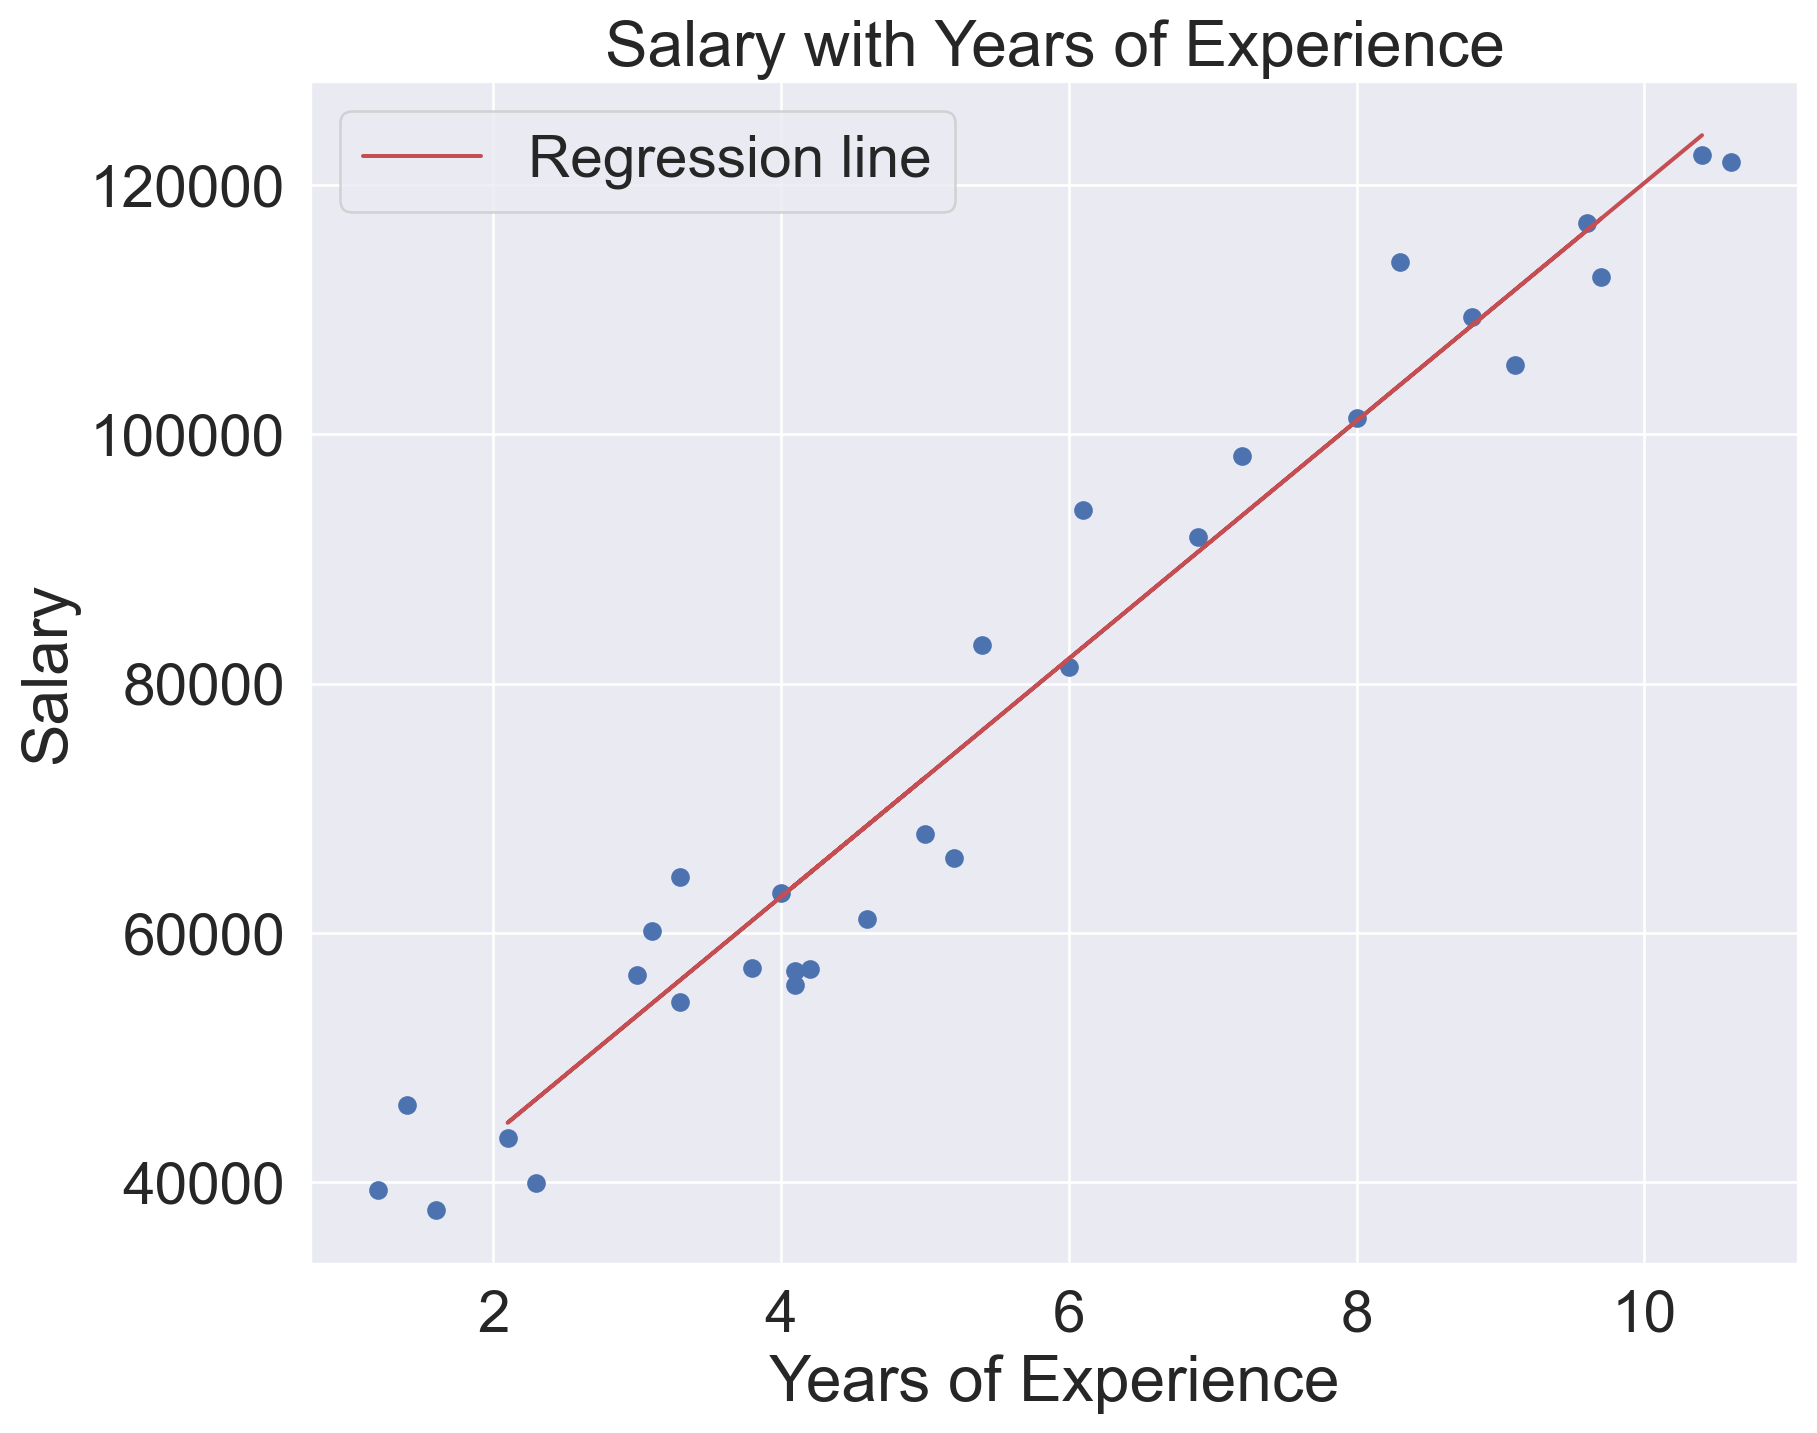
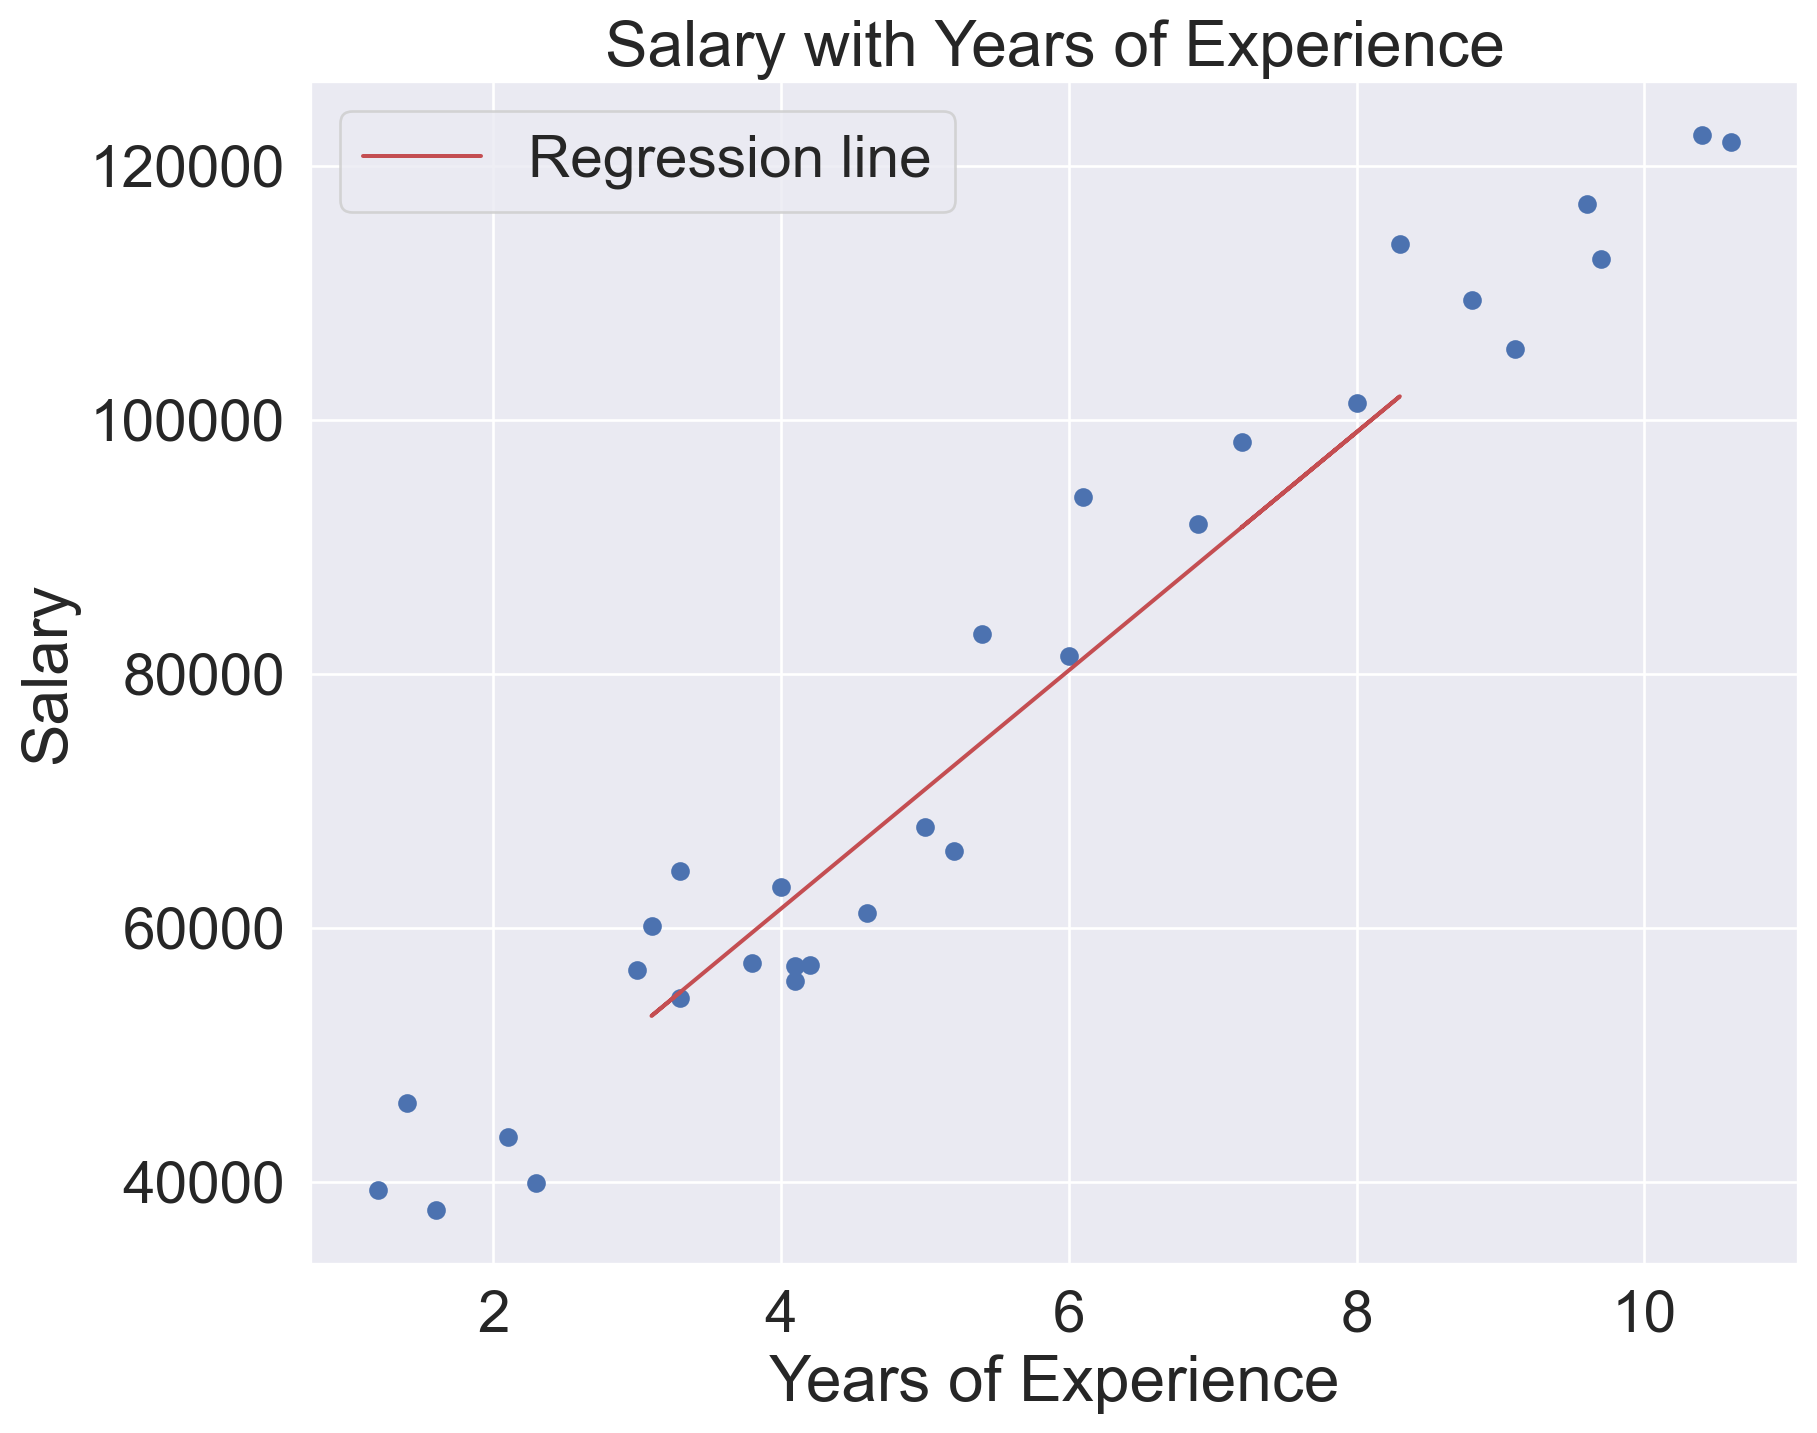
4th blog

diff --git a/docs/posts/Blog4/index.html b/docs/posts/Blog4/index.html
@@ -6,8 +6,10 @@
 
 <meta name="viewport" content="width=device-width, initial-scale=1.0, user-scalable=yes">
 
+<meta name="author" content="Shreyas Harathi">
+<meta name="dcterms.date" content="2023-11-29">
 
-<title>MachineLearning - ML Blog</title>
+<title>MachineLearning - Clustering</title>
 <style>
 code{white-space: pre-wrap;}
 span.smallcaps{font-variant: small-caps;}
@@ -23,24 +25,22 @@ ul.task-list li input[type="checkbox"] {
 </style>
 
 
-<script src="site_libs/quarto-nav/quarto-nav.js"></script>
-<script src="site_libs/quarto-nav/headroom.min.js"></script>
-<script src="site_libs/clipboard/clipboard.min.js"></script>
-<script src="site_libs/quarto-search/autocomplete.umd.js"></script>
-<script src="site_libs/quarto-search/fuse.min.js"></script>
-<script src="site_libs/quarto-search/quarto-search.js"></script>
-<meta name="quarto:offset" content="./">
-<script src="site_libs/quarto-listing/list.min.js"></script>
-<script src="site_libs/quarto-listing/quarto-listing.js"></script>
-<script src="site_libs/quarto-html/quarto.js"></script>
-<script src="site_libs/quarto-html/popper.min.js"></script>
-<script src="site_libs/quarto-html/tippy.umd.min.js"></script>
-<script src="site_libs/quarto-html/anchor.min.js"></script>
-<link href="site_libs/quarto-html/tippy.css" rel="stylesheet">
-<link href="site_libs/quarto-html/quarto-syntax-highlighting-dark.css" rel="stylesheet" id="quarto-text-highlighting-styles">
-<script src="site_libs/bootstrap/bootstrap.min.js"></script>
-<link href="site_libs/bootstrap/bootstrap-icons.css" rel="stylesheet">
-<link href="site_libs/bootstrap/bootstrap.min.css" rel="stylesheet" id="quarto-bootstrap" data-mode="dark">
+<script src="../../site_libs/quarto-nav/quarto-nav.js"></script>
+<script src="../../site_libs/quarto-nav/headroom.min.js"></script>
+<script src="../../site_libs/clipboard/clipboard.min.js"></script>
+<script src="../../site_libs/quarto-search/autocomplete.umd.js"></script>
+<script src="../../site_libs/quarto-search/fuse.min.js"></script>
+<script src="../../site_libs/quarto-search/quarto-search.js"></script>
+<meta name="quarto:offset" content="../../">
+<script src="../../site_libs/quarto-html/quarto.js"></script>
+<script src="../../site_libs/quarto-html/popper.min.js"></script>
+<script src="../../site_libs/quarto-html/tippy.umd.min.js"></script>
+<script src="../../site_libs/quarto-html/anchor.min.js"></script>
+<link href="../../site_libs/quarto-html/tippy.css" rel="stylesheet">
+<link href="../../site_libs/quarto-html/quarto-syntax-highlighting-dark.css" rel="stylesheet" id="quarto-text-highlighting-styles">
+<script src="../../site_libs/bootstrap/bootstrap.min.js"></script>
+<link href="../../site_libs/bootstrap/bootstrap-icons.css" rel="stylesheet">
+<link href="../../site_libs/bootstrap/bootstrap.min.css" rel="stylesheet" id="quarto-bootstrap" data-mode="dark">
 <script id="quarto-search-options" type="application/json">{
   "location": "navbar",
   "copy-button": false,
@@ -61,68 +61,19 @@ ul.task-list li input[type="checkbox"] {
     "search-label": "Search"
   }
 }</script>
-<script>
 
-  window.document.addEventListener("DOMContentLoaded", function (_event) {
-    const listingTargetEl = window.document.querySelector('#listing-listing .list');
-    if (!listingTargetEl) {
-      // No listing discovered, do not attach.
-      return; 
-    }
 
-    const options = {
-      valueNames: ['listing-date','listing-title','listing-author','listing-image','listing-description',{ data: ['index'] },{ data: ['categories'] },{ data: ['listing-date-sort'] },{ data: ['listing-file-modified-sort'] }],
-      
-      searchColumns: ["listing-date","listing-title","listing-author","listing-image","listing-description"],
-    };
-
-    window['quarto-listings'] = window['quarto-listings'] || {};
-    window['quarto-listings']['listing-listing'] = new List('listing-listing', options);
-
-    if (window['quarto-listing-loaded']) {
-      window['quarto-listing-loaded']();
-    }
-  });
-
-  window.addEventListener('hashchange',() => {
-    if (window['quarto-listing-loaded']) {
-      window['quarto-listing-loaded']();
-    }
-  })
-  </script>
-<style>
-
-      .quarto-title-block .quarto-title-banner h1,
-      .quarto-title-block .quarto-title-banner h2,
-      .quarto-title-block .quarto-title-banner h3,
-      .quarto-title-block .quarto-title-banner h4,
-      .quarto-title-block .quarto-title-banner h5,
-      .quarto-title-block .quarto-title-banner h6
-      {
-        color: White;
-      }
-
-      .quarto-title-block .quarto-title-banner {
-        color: White;
-background-image: url(qwq.jpg);
-background-size: cover;
-      }
-</style>
-
-  <script src="https://polyfill.io/v3/polyfill.min.js?features=es6"></script>
-  <script src="https://cdn.jsdelivr.net/npm/mathjax@3/es5/tex-chtml-full.js" type="text/javascript"></script>
-
-<link rel="stylesheet" href="styles.css">
+<link rel="stylesheet" href="../../styles.css">
 </head>
 
-<body class="nav-fixed">
+<body class="nav-fixed fullcontent">
 
 <div id="quarto-search-results"></div>
   <header id="quarto-header" class="headroom fixed-top">
     <nav class="navbar navbar-expand-lg navbar-dark ">
       <div class="navbar-container container-fluid">
       <div class="navbar-brand-container">
-    <a class="navbar-brand" href="./index.html">
+    <a class="navbar-brand" href="../../index.html">
     <span class="navbar-title">MachineLearning</span>
     </a>
   </div>
@@ -133,7 +84,7 @@ background-size: cover;
           <div class="collapse navbar-collapse" id="navbarCollapse">
             <ul class="navbar-nav navbar-nav-scroll ms-auto">
   <li class="nav-item">
-    <a class="nav-link" href="./about.html" rel="" target="">
+    <a class="nav-link" href="../../about.html" rel="" target="">
  <span class="menu-text">About</span></a>
   </li>  
   <li class="nav-item compact">
@@ -142,7 +93,7 @@ background-size: cover;
  <span class="menu-text"></span></a>
   </li>  
   <li class="nav-item compact">
-    <a class="nav-link" href="./www.linkedin.com/in/amal-sujith-4a09bb1b5" rel="" target=""><i class="bi bi-linkedin" role="img">
+    <a class="nav-link" href="../../www.linkedin.com/in/amal-sujith-4a09bb1b5" rel="" target=""><i class="bi bi-linkedin" role="img">
 </i> 
  <span class="menu-text"></span></a>
   </li>  
@@ -154,161 +105,52 @@ background-size: cover;
     </nav>
 </header>
 <!-- content -->
-<header id="title-block-header" class="quarto-title-block default page-columns page-full">
-  <div class="quarto-title-banner page-columns page-full">
-    <div class="quarto-title column-page">
-      <h1 class="title">ML Blog</h1>
-                      </div>
-  </div>
-    
-  
-  <div class="quarto-title-meta">
-
-      
-    
-      
-    </div>
-    
-  
-  </header><div id="quarto-content" class="quarto-container page-columns page-rows-contents page-layout-full page-navbar">
+<div id="quarto-content" class="quarto-container page-columns page-rows-contents page-layout-article page-navbar">
 <!-- sidebar -->
 <!-- margin-sidebar -->
     
 <!-- main -->
-<main class="content quarto-banner-title-block column-page" id="quarto-document-content">
+<main class="content" id="quarto-document-content">
+
+<header id="title-block-header" class="quarto-title-block default">
+<div class="quarto-title">
+<h1 class="title">Clustering</h1>
+  <div class="quarto-categories">
+    <div class="quarto-category">code</div>
+    <div class="quarto-category">analysis</div>
+  </div>
+  </div>
 
 
 
+<div class="quarto-title-meta">
 
-
-
-
-
-<div class="quarto-listing quarto-listing-container-default" id="listing-listing">
-<div class="listing-actions-group">
-    <div class="input-group input-group-sm quarto-listing-filter">
-      <span class="input-group-text"><i class="bi bi-search"></i></span>
-      <input type="text" class="search form-control" placeholder="Filter">
+    <div>
+    <div class="quarto-title-meta-heading">Author</div>
+    <div class="quarto-title-meta-contents">
+             <p>Shreyas Harathi </p>
+          </div>
+  </div>
+    
+    <div>
+    <div class="quarto-title-meta-heading">Published</div>
+    <div class="quarto-title-meta-contents">
+      <p class="date">November 29, 2023</p>
     </div>
-</div>
-<div class="list quarto-listing-default">
-<div class="quarto-post image-right" data-index="0" data-categories="code,analysis" data-listing-date-sort="1701196200000" data-listing-file-modified-sort="1702707072146" data-listing-date-modified-sort="NaN" data-listing-reading-time-sort="3">
-<div class="thumbnail">
-<p><a href="./posts/Blog1/index.html"> <p class="card-img-top"><img src="posts\Blog1\index_files\figure-html\cell-4-output-1.png"  class="thumbnail-image card-img"/></p> </a></p>
-</div>
-<div class="body">
-<a href="./posts/Blog1/index.html">
-<h3 class="no-anchor listing-title">
-Blog-1: Probability theory and random variables
-</h3>
-<div class="listing-subtitle">
+  </div>
+  
+    
+  </div>
+  
 
-</div>
-<div class="listing-description">
-<strong>Using Naive Bayes To Predict Poisonous Mushrooms</strong>
-</div>
-</a>
-</div>
-<div class="metadata">
-<a href="./posts/Blog1/index.html">
-<div class="listing-date">
-Nov 29, 2023
-</div>
-<div class="listing-author">
-Shreyas Harathi
-</div>
-</a>
-</div>
-</div>
-<div class="quarto-post image-right" data-index="1" data-categories="code,analysis" data-listing-date-sort="1701196200000" data-listing-file-modified-sort="1702713511748" data-listing-date-modified-sort="NaN" data-listing-reading-time-sort="2">
-<div class="thumbnail">
-<p><a href="./posts/Blog2/index.html"> <p class="card-img-top"><img src="posts\Blog2\index_files\figure-html\cell-10-output-1.png"  class="thumbnail-image card-img"/></p> </a></p>
-</div>
-<div class="body">
-<a href="./posts/Blog2/index.html">
-<h3 class="no-anchor listing-title">
-Linear Regression
-</h3>
-<div class="listing-subtitle">
+</header>
 
-</div>
-<div class="listing-description">
-<strong>Salary Patterns with Linear Regression</strong>
-</div>
-</a>
-</div>
-<div class="metadata">
-<a href="./posts/Blog2/index.html">
-<div class="listing-date">
-Nov 29, 2023
-</div>
-<div class="listing-author">
-Shreyas Harathi
-</div>
-</a>
-</div>
-</div>
-<div class="quarto-post image-right" data-index="2" data-categories="code,analysis" data-listing-date-sort="1701196200000" data-listing-file-modified-sort="1702717269530" data-listing-date-modified-sort="NaN" data-listing-reading-time-sort="2">
-<div class="thumbnail">
-<p><a href="./posts/Blog3/index.html"> <p class="card-img-top"><img src="posts\Blog3\index_files\figure-html\cell-6-output-1.png"  class="thumbnail-image card-img"/></p> </a></p>
-</div>
-<div class="body">
-<a href="./posts/Blog3/index.html">
-<h3 class="no-anchor listing-title">
-Classification
-</h3>
-<div class="listing-subtitle">
+<p><strong>Drug Classification</strong></p>
+<p><strong>Introduction</strong> In this blog post, we shall delve into a machine learning project that concentrates on classifying drugs according to patient features. The dataset assigned for this task encapsulates patients’ information and the prescribed medications. To predict the suitable drug for a patient, our objective entails constructing and assessing two classification models: Logistic Regression and Random Forest.</p>
 
-</div>
-<div class="listing-description">
-<strong>Drug Classification</strong>
-</div>
-</a>
-</div>
-<div class="metadata">
-<a href="./posts/Blog3/index.html">
-<div class="listing-date">
-Nov 29, 2023
-</div>
-<div class="listing-author">
-Amal Sujith
-</div>
-</a>
-</div>
-</div>
-<div class="quarto-post image-right" data-index="3" data-categories="code,analysis" data-listing-date-sort="1701196200000" data-listing-file-modified-sort="1702718880830" data-listing-date-modified-sort="NaN" data-listing-reading-time-sort="1">
-<div class="thumbnail">
-<p><a href="./posts/Blog4/index.html"> <div class="listing-item-img-placeholder card-img-top" >&nbsp;</div> </a></p>
-</div>
-<div class="body">
-<a href="./posts/Blog4/index.html">
-<h3 class="no-anchor listing-title">
-Clustering
-</h3>
-<div class="listing-subtitle">
 
-</div>
-<div class="listing-description">
-<strong>Drug Classification</strong>
-</div>
-</a>
-</div>
-<div class="metadata">
-<a href="./posts/Blog4/index.html">
-<div class="listing-date">
-Nov 29, 2023
-</div>
-<div class="listing-author">
-Shreyas Harathi
-</div>
-</a>
-</div>
-</div>
-</div>
-<div class="listing-no-matching d-none">
-No matching items
-</div>
-</div></main> <!-- /main -->
+
+</main> <!-- /main -->
 <script id="quarto-html-after-body" type="application/javascript">
 window.document.addEventListener("DOMContentLoaded", function (event) {
   const toggleBodyColorMode = (bsSheetEl) => {

diff --git a/docs/posts/Blog2/index.html b/docs/posts/Blog2/index.html
@@ -363,11 +363,11 @@ dtype: int64</code></pre>
 <div class="sourceCode cell-code" id="cb18"><pre class="sourceCode python code-with-copy"><code class="sourceCode python"><span id="cb18-1"><a href="#cb18-1" aria-hidden="true" tabindex="-1"></a>y_preds<span class="op">=</span>lr.predict(x_test)</span>
 <span id="cb18-2"><a href="#cb18-2" aria-hidden="true" tabindex="-1"></a><span class="bu">print</span>(y_preds)</span></code><button title="Copy to Clipboard" class="code-copy-button"><i class="bi"></i></button></pre></div>
 <div class="cell-output cell-output-stdout">
-<pre><code>[[117317.85222322]
- [ 44763.57439382]
- [ 72448.75935504]
- [ 62902.14385117]
- [124000.48307593]]</code></pre>
+<pre><code>[[ 99014.83184211]
+ [ 91509.7912963 ]
+ [101829.22204678]
+ [ 53046.45849903]
+ [ 54922.71863548]]</code></pre>
 </div>
 </div>
 <div class="cell" data-execution_count="15">
@@ -390,9 +390,9 @@ dtype: int64</code></pre>
 <span id="cb21-2"><a href="#cb21-2" aria-hidden="true" tabindex="-1"></a><span class="bu">print</span>(<span class="st">"Mean Squared Error = "</span>, <span class="bu">str</span>(mean_squared_error(y_test, y_preds)))</span>
 <span id="cb21-3"><a href="#cb21-3" aria-hidden="true" tabindex="-1"></a><span class="bu">print</span>(<span class="st">"R-squared = "</span>, <span class="bu">str</span>(r2_score(y_test, y_preds)))</span></code><button title="Copy to Clipboard" class="code-copy-button"><i class="bi"></i></button></pre></div>
 <div class="cell-output cell-output-stdout">
-<pre><code>Mean Absolute Error =  2470.9050393693715
-Mean Squared Error =  9295375.137068186
-R-squared =  0.989897973894557</code></pre>
+<pre><code>Mean Absolute Error =  7532.795536062369
+Mean Squared Error =  67153712.96499795
+R-squared =  0.8526285771068207</code></pre>
 </div>
 </div>
 <p><strong>Conclusion</strong></p>
